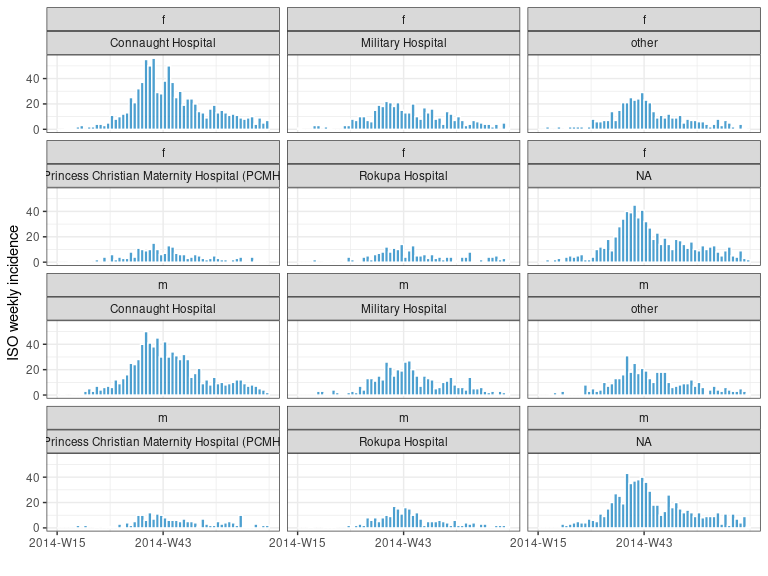
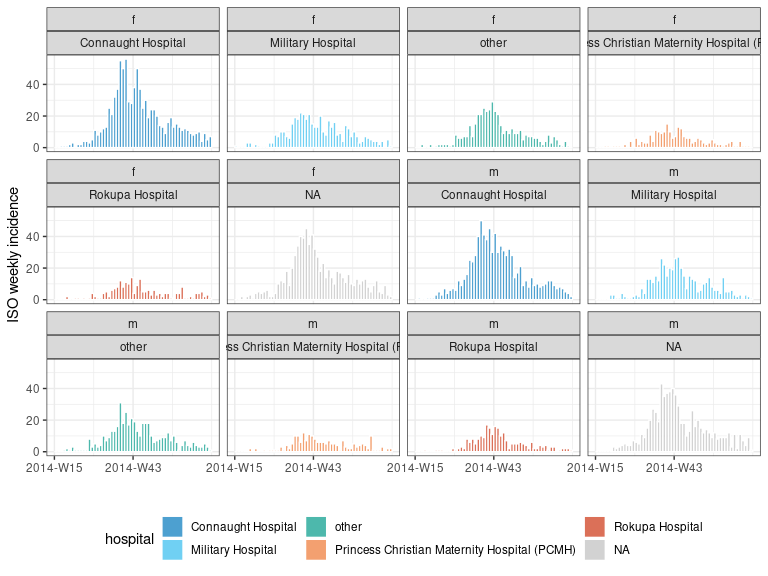
wip - adding fill argument to facet_plot

diff --git a/README.md b/README.md
@@ -257,7 +257,7 @@ i_7_sh %>% summary()
 #> 4 Princess Christian Maternity Hospital (PCMH)   420
 #> 5 Rokupa Hospital                                451
 #> 6 <NA>                                          1456
-i_7_sh %>% facet_plot(n_breaks = 2, nrow = 4)
+i_7_sh %>% facet_plot(n_breaks = 2, nrow = 4, fill = hospital)
 ```
 
 ![](figs/genderhospital-1.png)<!-- -->
